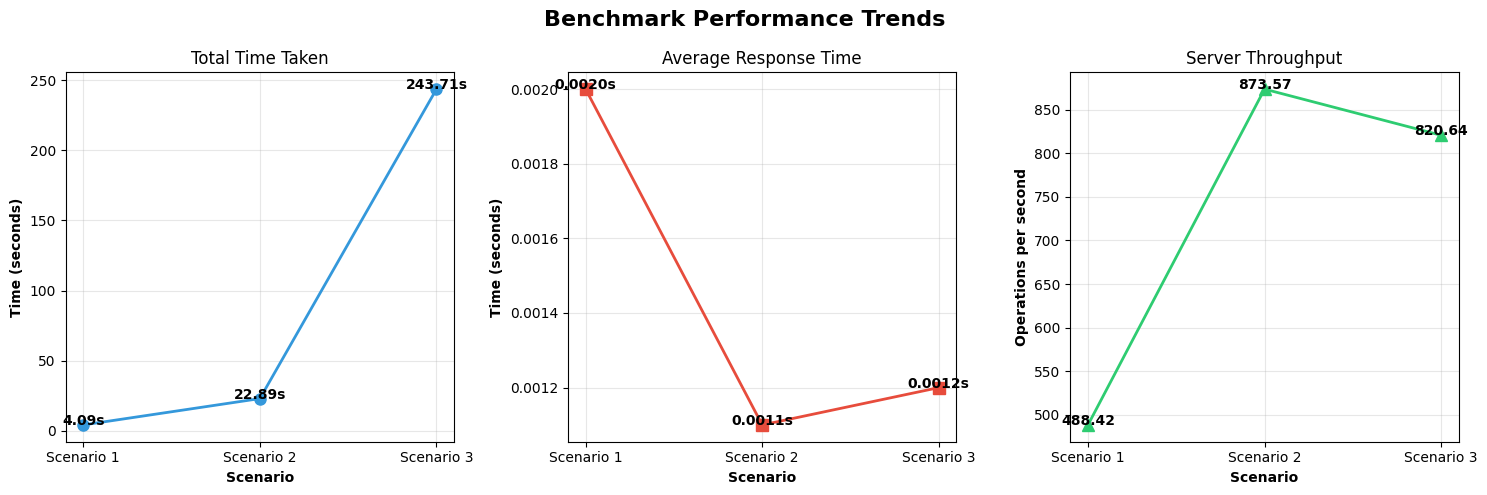
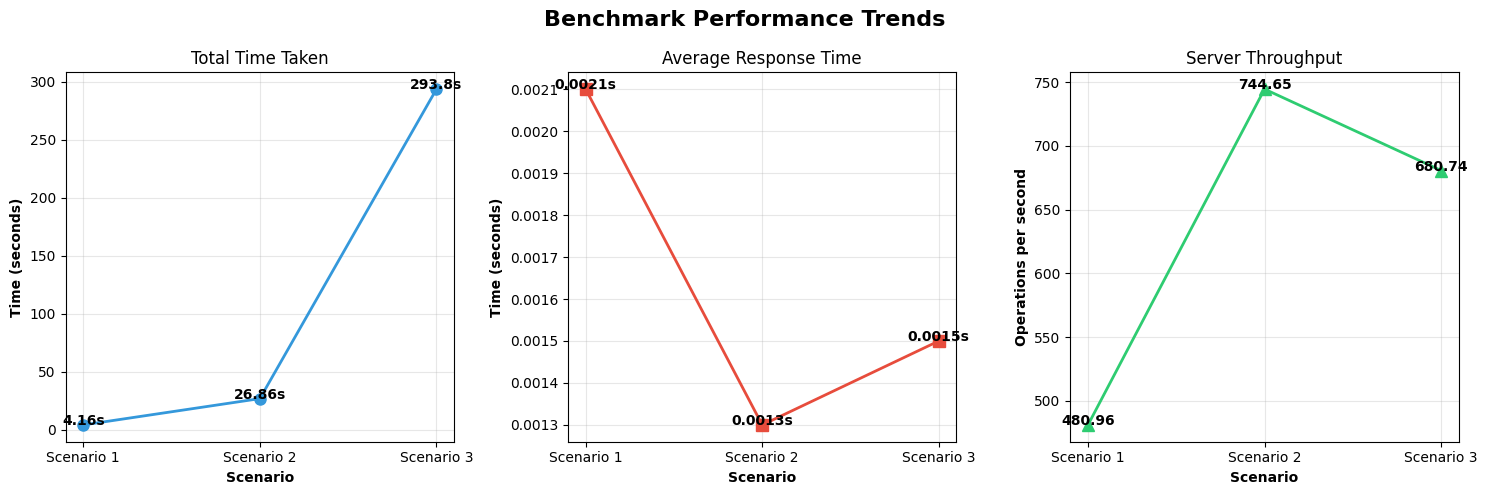
fix eval data

diff --git a/performance_report.md b/performance_report.md
@@ -1,10 +1,10 @@
 # Performance Report
 | Scenario | Total Time | Avg Response Time | Throughput |
 |----------|-----------|-------------------|-----------|
-| 1 | 4.09s | 0.0020s | 488.42 ops/sec |
-| 2 | 22.89s | 0.0011s | 873.57 ops/sec |
-| 3 | 243.71s | 0.0012s | 820.64 ops/sec |
+| 0 | 4.16s | 0.0021s | 480.96 ops/sec |
+| 1 | 26.86s | 0.0013s | 744.65 ops/sec |
+| 2 | 293.80s | 0.0015s | 680.74 ops/sec |
 
 ![Evaluation Data](eval_data.png)
 
-As we can see the first scenario where we connect 1 buyers and 1 seller, the throughput is lower than the other scenarios because the limiting factor is how fast can we receive and send data. As for the second scenario where we connect 10 buyers and 10 sellers we see the best numbers in terms of response time and throughput as the server is being utilized more than the first scenario. As for the final scenario where we connect 100 buyers and 100 sellers we lose throughput and the response time lowers bit (0.1ms) this can be attributed to either noise or database connection limits. 
+As we can see the first scenario where we connect 1 buyer and 1 seller, the throughput is lower than the other scenarios because the limiting factor is how fast we can receive and send data. In the second scenario where we connect 10 buyers and 10 sellers, we see the best numbers in terms of response time and throughput as the server is being utilized more effectively. In the final scenario where we connect 100 buyers and 100 sellers, we observe a decrease in throughput and a slight increase in response time (0.2ms). This can be attributed to either measurement variance or database connection constraints. 
